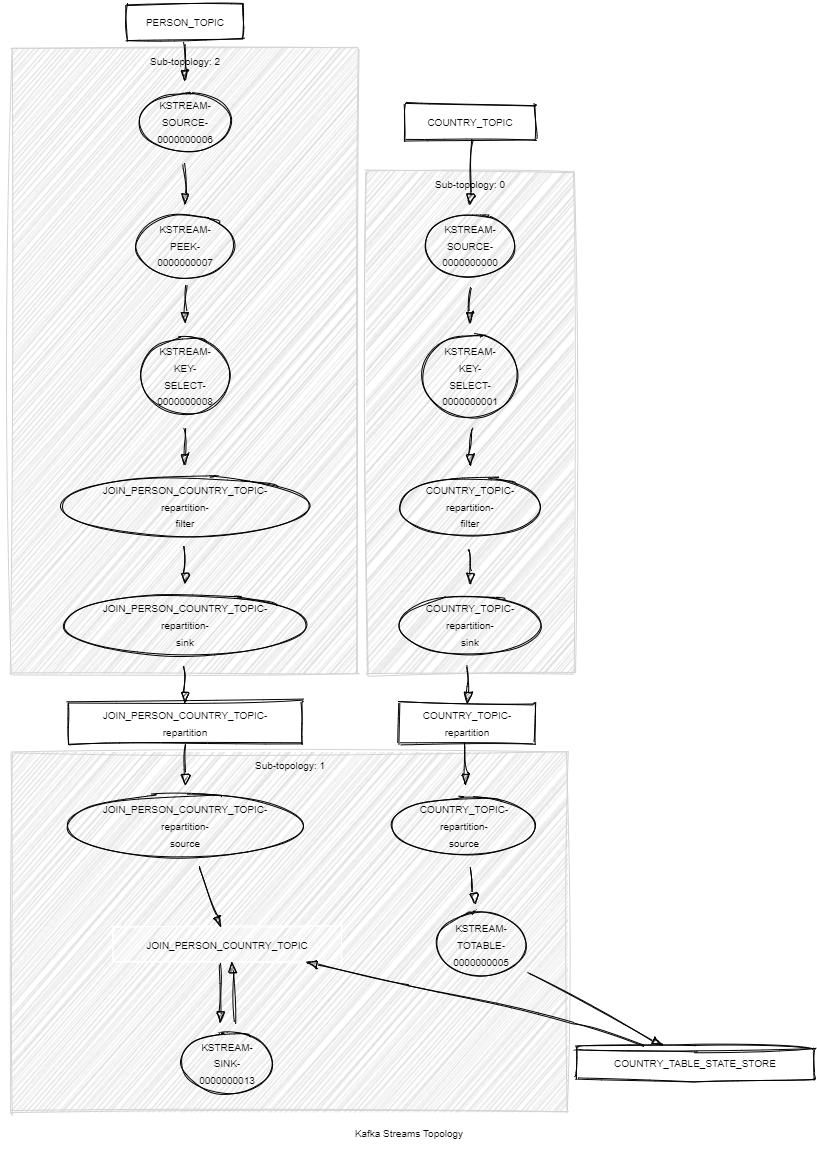
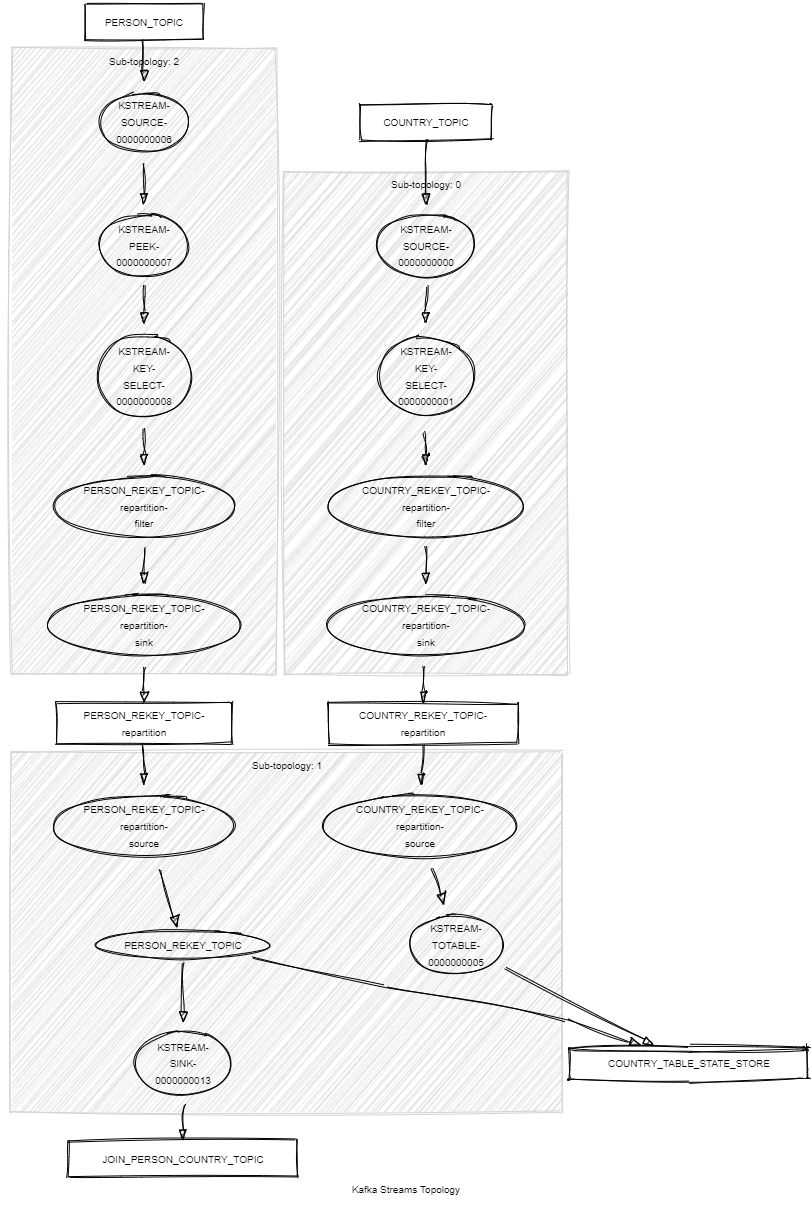
Improve KStream join Stream-Table topology

diff --git a/kafka-streams-quickstarts/kafka-streams-join-stream-table/src/test/java/io/lgr/quickstarts/streams/join/stream/table/KafkaStreamsJoinStreamTableTest.java b/kafka-streams-quickstarts/kafka-streams-join-stream-table/src/test/java/io/lgr/quickstarts/streams/join/stream/table/KafkaStreamsJoinStreamTableTest.java
@@ -30,12 +30,14 @@ class KafkaStreamsJoinStreamTableTest {
     private TopologyTestDriver testDriver;
     private TestInputTopic<String, KafkaPerson> personInputTopic;
     private TestInputTopic<String, KafkaCountry> countryInputTopic;
+    private TestOutputTopic<String, KafkaCountry> countryRekeyOutputTopic;
+    private TestOutputTopic<String, KafkaPerson> personRekeyOutputTopic;
     private TestOutputTopic<String, KafkaJoinPersonCountry> joinOutputTopic;
 
     @BeforeEach
     void setUp() {
         Properties properties = new Properties();
-        properties.setProperty(StreamsConfig.APPLICATION_ID_CONFIG, "streams-map-test");
+        properties.setProperty(StreamsConfig.APPLICATION_ID_CONFIG, "streams-join-stream-table-test");
         properties.setProperty(StreamsConfig.BOOTSTRAP_SERVERS_CONFIG, "mock://");
         properties.setProperty(StreamsConfig.STATE_DIR_CONFIG, STATE_DIR);
 
@@ -52,6 +54,12 @@ class KafkaStreamsJoinStreamTableTest {
         countryInputTopic = testDriver.createInputTopic(Topic.COUNTRY_TOPIC.toString(), new StringSerializer(),
                 CustomSerdes.<KafkaCountry>getValueSerdes().serializer());
 
+        countryRekeyOutputTopic = testDriver.createOutputTopic("streams-join-stream-table-test-" + Topic.COUNTRY_REKEY_TOPIC + "-repartition", new StringDeserializer(),
+                CustomSerdes.<KafkaCountry>getValueSerdes().deserializer());
+
+        personRekeyOutputTopic = testDriver.createOutputTopic("streams-join-stream-table-test-" + Topic.PERSON_REKEY_TOPIC + "-repartition", new StringDeserializer(),
+                CustomSerdes.<KafkaPerson>getValueSerdes().deserializer());
+
         joinOutputTopic = testDriver.createOutputTopic(Topic.JOIN_PERSON_COUNTRY_TOPIC.toString(), new StringDeserializer(),
                 CustomSerdes.<KafkaJoinPersonCountry>getValueSerdes().deserializer());
     }
@@ -61,6 +69,29 @@ class KafkaStreamsJoinStreamTableTest {
         testDriver.close();
         FileUtils.deleteQuietly(new File(STATE_DIR));
         MockSchemaRegistry.dropScope(this.getClass().getName());
+    }
+
+    @Test
+    void testRekeyCountry() {
+        countryInputTopic.pipeInput("1", buildCountry());
+
+        List<KeyValue<String, KafkaCountry>> results = countryRekeyOutputTopic.readKeyValuesToList();
+
+        assertThat(results).hasSize(1);
+        assertThat(results.get(0).key).isEqualTo("FR");
+        assertThat(results.get(0).value.getName()).isEqualTo("France");
+    }
+
+    @Test
+    void testRekeyPerson() {
+        personInputTopic.pipeInput("1", buildPerson());
+
+        List<KeyValue<String, KafkaPerson>> results = personRekeyOutputTopic.readKeyValuesToList();
+
+        assertThat(results).hasSize(1);
+        assertThat(results.get(0).key).isEqualTo("FR");
+        assertThat(results.get(0).value.getFirstName()).isEqualTo("First name");
+        assertThat(results.get(0).value.getLastName()).isEqualTo("Last name");
     }
 
     @Test

diff --git a/kafka-streams-quickstarts/kafka-streams-join-stream-table/src/main/java/io/lgr/quickstarts/streams/join/stream/table/app/KafkaStreamsJoinStreamTableTopology.java b/kafka-streams-quickstarts/kafka-streams-join-stream-table/src/main/java/io/lgr/quickstarts/streams/join/stream/table/app/KafkaStreamsJoinStreamTableTopology.java
@@ -23,7 +23,7 @@ public class KafkaStreamsJoinStreamTableTopology {
                 .selectKey((key, country) -> country.getCode().toString())
                 .repartition(Repartitioned
                         .<String, KafkaCountry>with(Serdes.String(), CustomSerdes.getValueSerdes())
-                        .withName(Topic.COUNTRY_TOPIC.toString()))
+                        .withName(Topic.COUNTRY_REKEY_TOPIC.toString()))
                 .toTable(Materialized.<String, KafkaCountry, KeyValueStore<Bytes, byte[]>>as(StateStore.COUNTRY_TABLE_STATE_STORE.toString())
                         .withKeySerde(Serdes.String())
                         .withValueSerde(CustomSerdes.getValueSerdes()));
@@ -41,7 +41,7 @@ public class KafkaStreamsJoinStreamTableTopology {
                                     .setCountry(country)
                                     .build();
                         },
-                        Joined.with(Serdes.String(), CustomSerdes.getValueSerdes(), CustomSerdes.getValueSerdes(), Topic.JOIN_PERSON_COUNTRY_TOPIC.toString()))
+                        Joined.with(Serdes.String(), CustomSerdes.getValueSerdes(), CustomSerdes.getValueSerdes(), Topic.PERSON_REKEY_TOPIC.toString()))
                 .to(Topic.JOIN_PERSON_COUNTRY_TOPIC.toString(), Produced.with(Serdes.String(), CustomSerdes.getValueSerdes()));
     }
 }

diff --git a/kafka-streams-quickstarts/kafka-streams-flatmap-values/src/test/java/io/lgr/quickstarts/streams/flatmapvalues/KafkaStreamsFlatMapValuesTest.java b/kafka-streams-quickstarts/kafka-streams-flatmap-values/src/test/java/io/lgr/quickstarts/streams/flatmapvalues/KafkaStreamsFlatMapValuesTest.java
@@ -31,7 +31,7 @@ class KafkaStreamsFlatMapValuesTest {
     @BeforeEach
     void setUp() {
         Properties properties = new Properties();
-        properties.setProperty(StreamsConfig.APPLICATION_ID_CONFIG, "streams-map-values-test");
+        properties.setProperty(StreamsConfig.APPLICATION_ID_CONFIG, "streams-flatmap-values-test");
         properties.setProperty(StreamsConfig.BOOTSTRAP_SERVERS_CONFIG, "mock://");
         properties.setProperty(StreamsConfig.STATE_DIR_CONFIG, STATE_DIR);
 

diff --git a/kafka-streams-quickstarts/kafka-streams-repartition/src/test/java/io/lgr/quickstarts/streams/repartition/KafkaStreamsRepartitionTest.java b/kafka-streams-quickstarts/kafka-streams-repartition/src/test/java/io/lgr/quickstarts/streams/repartition/KafkaStreamsRepartitionTest.java
@@ -31,7 +31,7 @@ class KafkaStreamsRepartitionTest {
     @BeforeEach
     void setUp() {
         Properties properties = new Properties();
-        properties.setProperty(StreamsConfig.APPLICATION_ID_CONFIG, "streams-map-values-test");
+        properties.setProperty(StreamsConfig.APPLICATION_ID_CONFIG, "streams-repartition-test");
         properties.setProperty(StreamsConfig.BOOTSTRAP_SERVERS_CONFIG, "mock://");
         properties.setProperty(StreamsConfig.STATE_DIR_CONFIG, STATE_DIR);
 

diff --git a/kafka-streams-quickstarts/kafka-streams-select-key/src/test/java/io/lgr/quickstarts/streams/selectkey/KafkaStreamsSelectKeyTest.java b/kafka-streams-quickstarts/kafka-streams-select-key/src/test/java/io/lgr/quickstarts/streams/selectkey/KafkaStreamsSelectKeyTest.java
@@ -31,7 +31,7 @@ class KafkaStreamsSelectKeyTest {
     @BeforeEach
     void setUp() {
         Properties properties = new Properties();
-        properties.setProperty(StreamsConfig.APPLICATION_ID_CONFIG, "streams-map-values-test");
+        properties.setProperty(StreamsConfig.APPLICATION_ID_CONFIG, "streams-select-key-test");
         properties.setProperty(StreamsConfig.BOOTSTRAP_SERVERS_CONFIG, "mock://");
         properties.setProperty(StreamsConfig.STATE_DIR_CONFIG, STATE_DIR);
 

diff --git a/kafka-streams-quickstarts/kafka-streams-flatmap/src/test/java/io/lgr/quickstarts/streams/flatmap/KafkaStreamsFlatMapTest.java b/kafka-streams-quickstarts/kafka-streams-flatmap/src/test/java/io/lgr/quickstarts/streams/flatmap/KafkaStreamsFlatMapTest.java
@@ -31,7 +31,7 @@ class KafkaStreamsFlatMapTest {
     @BeforeEach
     void setUp() {
         Properties properties = new Properties();
-        properties.setProperty(StreamsConfig.APPLICATION_ID_CONFIG, "streams-map-values-test");
+        properties.setProperty(StreamsConfig.APPLICATION_ID_CONFIG, "streams-flatmap-test");
         properties.setProperty(StreamsConfig.BOOTSTRAP_SERVERS_CONFIG, "mock://");
         properties.setProperty(StreamsConfig.STATE_DIR_CONFIG, STATE_DIR);
 

diff --git a/kafka-streams-quickstarts/kafka-streams-cogroup/src/test/java/io/lgr/quickstarts/streams/cogroup/KafkaStreamsCogroupTest.java b/kafka-streams-quickstarts/kafka-streams-cogroup/src/test/java/io/lgr/quickstarts/streams/cogroup/KafkaStreamsCogroupTest.java
@@ -33,7 +33,7 @@ class KafkaStreamsCogroupTest {
     @BeforeEach
     void setUp() {
         Properties properties = new Properties();
-        properties.setProperty(StreamsConfig.APPLICATION_ID_CONFIG, "streams-filter-test");
+        properties.setProperty(StreamsConfig.APPLICATION_ID_CONFIG, "streams-cogroup-test");
         properties.setProperty(StreamsConfig.BOOTSTRAP_SERVERS_CONFIG, "mock://");
         properties.setProperty(StreamsConfig.STATE_DIR_CONFIG, STATE_DIR);
 

diff --git a/kafka-streams-quickstarts/kafka-streams-merge/src/test/java/io/lgr/quickstarts/streams/merge/KafkaStreamsMergeTest.java b/kafka-streams-quickstarts/kafka-streams-merge/src/test/java/io/lgr/quickstarts/streams/merge/KafkaStreamsMergeTest.java
@@ -32,7 +32,7 @@ class KafkaStreamsMergeTest {
     @BeforeEach
     void setUp() {
         Properties properties = new Properties();
-        properties.setProperty(StreamsConfig.APPLICATION_ID_CONFIG, "streams-filter-test");
+        properties.setProperty(StreamsConfig.APPLICATION_ID_CONFIG, "streams-merge-test");
         properties.setProperty(StreamsConfig.BOOTSTRAP_SERVERS_CONFIG, "mock://");
         properties.setProperty(StreamsConfig.STATE_DIR_CONFIG, STATE_DIR);
 

diff --git a/kafka-streams-quickstarts/kafka-streams-branch/src/test/java/io/lgr/quickstarts/streams/branch/KafkaStreamsBranchTest.java b/kafka-streams-quickstarts/kafka-streams-branch/src/test/java/io/lgr/quickstarts/streams/branch/KafkaStreamsBranchTest.java
@@ -33,7 +33,7 @@ class KafkaStreamsBranchTest {
     @BeforeEach
     void setUp() {
         Properties properties = new Properties();
-        properties.setProperty(StreamsConfig.APPLICATION_ID_CONFIG, "streams-map-test");
+        properties.setProperty(StreamsConfig.APPLICATION_ID_CONFIG, "streams-branch-test");
         properties.setProperty(StreamsConfig.BOOTSTRAP_SERVERS_CONFIG, "mock://");
         properties.setProperty(StreamsConfig.STATE_DIR_CONFIG, STATE_DIR);
 

diff --git a/kafka-streams-quickstarts/kafka-streams-join-stream-table/src/main/java/io/lgr/quickstarts/streams/join/stream/table/constants/Topic.java b/kafka-streams-quickstarts/kafka-streams-join-stream-table/src/main/java/io/lgr/quickstarts/streams/join/stream/table/constants/Topic.java
@@ -5,7 +5,9 @@ import lombok.AllArgsConstructor;
 @AllArgsConstructor
 public enum Topic {
     COUNTRY_TOPIC("COUNTRY_TOPIC"),
+    COUNTRY_REKEY_TOPIC("COUNTRY_REKEY_TOPIC"),
     PERSON_TOPIC("PERSON_TOPIC"),
+    PERSON_REKEY_TOPIC("PERSON_REKEY_TOPIC"),
     JOIN_PERSON_COUNTRY_TOPIC("JOIN_PERSON_COUNTRY_TOPIC");
 
     private final String topicName;
